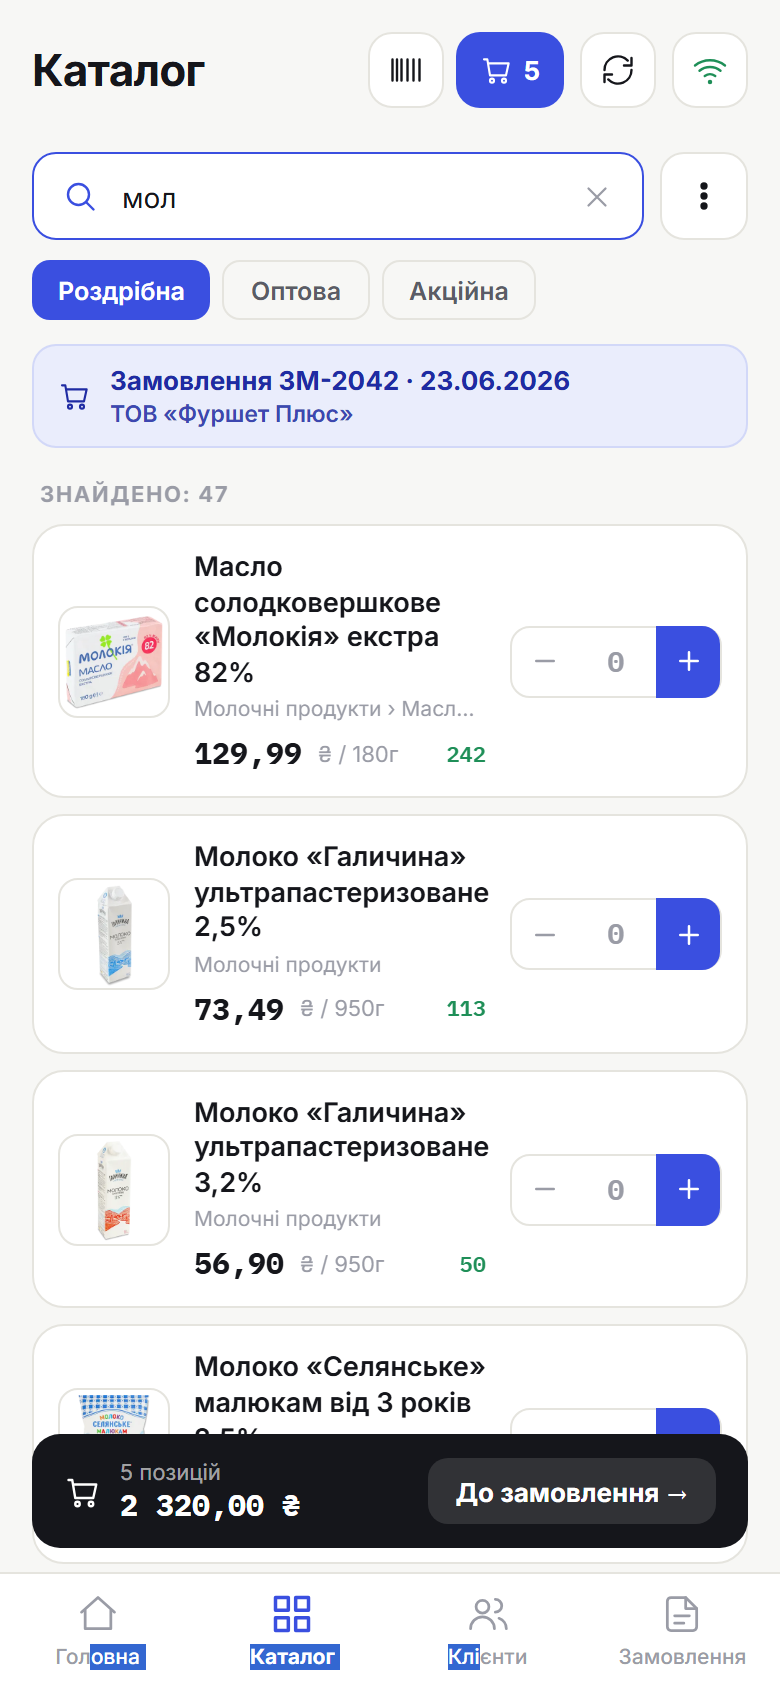
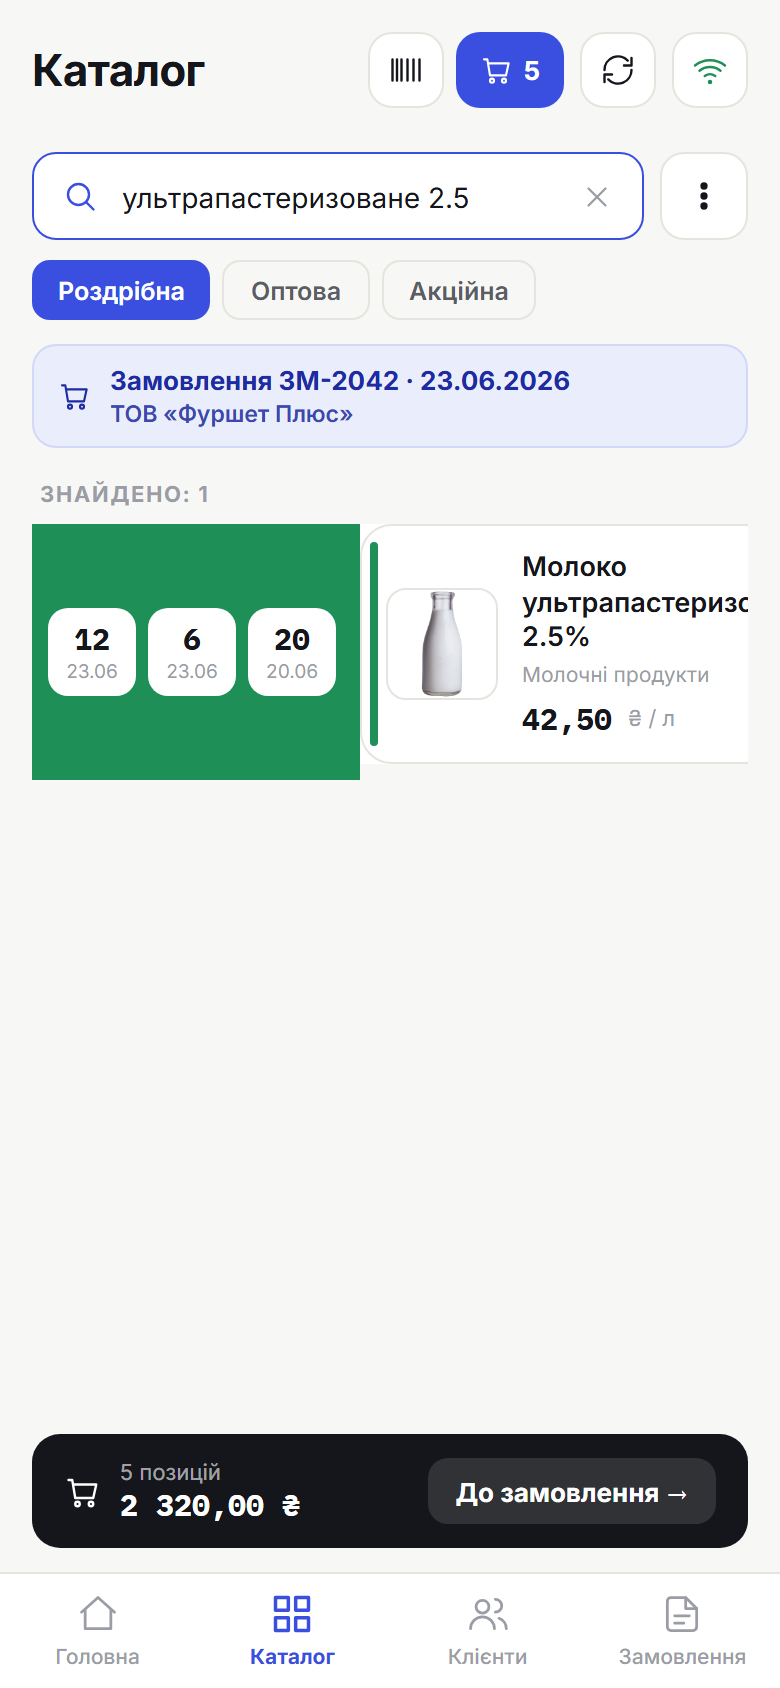
docs(user-guide): зелена смужка — в розділі оформлення замовлення
Розділ «Раніше замовлені товари» перенесено з каталогу в оформлення
замовлення (смужка живе в контексті замовлення клієнта); у каталозі —
рядок-вказівник у порадах. Кадри перезнято точним запитом
«ультрапастеризоване 2.5» (з великим демо-каталогом «мол» топив
замовлений товар нижче кадру): смужка і панель історії з кількостями
тепер видимі.

diff --git a/docs/user-guide/02-catalog.md b/docs/user-guide/02-catalog.md
@@ -40,15 +40,6 @@
 
 > **Порядок товарів.** У межах групи й у пошуку товари впорядковані **за назвою**. Товари **без залишку** типово **приховані** — увімкни їх у [меню дій](#меню-дій); тоді вони показуються **в кінці** списку (доступні до продажу завжди зверху).
 
-## Раніше замовлені товари
-Товари, які клієнт цього замовлення **вже замовляв раніше**, позначені **зеленою смужкою** ліворуч у рядку — одразу видно, що позиція для нього не нова. Ознака береться з **усієї історії** замовлень на сервері (навіть якщо в списку зараз видно лише останні).
-
-![Раніше замовлені товари — зелена смужка](images/catalog-ordered.png)
-
-**Свайп по зеленій смужці управо** розкриває її в історію: кілька останніх замовлень цієї позиції цим клієнтом — з **кількістю й датою**. Тапни по кількості, щоб одразу підставити її в поле кількості.
-
-![Історія замовлень позиції — кількість і дата](images/catalog-ordered-history.png)
-
 ## Картка товару
 У рядку товару видно ціну та залишок. Натисни на фото, щоб відкрити його на весь екран — там назва, артикул, штрихкод, залишок і **ціни за всіма типами** (активний тип виділено; для типу без ціни — «немає ціни»). Зручно назвати клієнту всі ціни, не перемикаючи типи в каталозі. Якщо фото немає або воно ще вантажиться — відкриється відповідне повідомлення.
 
@@ -64,3 +55,4 @@
 
 ## Поради
 - Фото підвантажуються **у фоні**. Поки фото немає — показуються **три крапки** (це не помилка). Раніше переглянуті фото доступні навіть офлайн.
+- **Зелена смужка** ліворуч у рядку товару позначає позиції, які клієнт замовлення вже замовляв раніше — деталі в розділі [Оформлення замовлення](04-order-create.md).

diff --git a/docs/user-guide/04-order-create.md b/docs/user-guide/04-order-create.md
@@ -20,6 +20,15 @@
 
 ![Вибір клієнта в замовленні](images/select-customer.png)
 
+## Раніше замовлені товари
+Коли в замовленні відомий клієнт (нове з вибраним клієнтом або редагування наявного), у каталозі товари, які цей клієнт **уже замовляв раніше**, позначені **зеленою смужкою** ліворуч у рядку — одразу видно, що позиція для нього не нова. Ознака береться з **усієї історії** замовлень на сервері (навіть якщо в списку зараз видно лише останні).
+
+![Раніше замовлені товари — зелена смужка](images/catalog-ordered.png)
+
+**Свайп по зеленій смужці управо** розкриває її в історію: кілька останніх замовлень цієї позиції цим клієнтом — з **кількістю й датою**. Тапни по кількості, щоб одразу підставити її в поле кількості.
+
+![Історія замовлень позиції — кількість і дата](images/catalog-ordered-history.png)
+
 ## Крок 3. Перевір і збережи
 Перевір позиції, кількості та суму **«До сплати»** внизу. Натисни **«Зберегти»**.
 